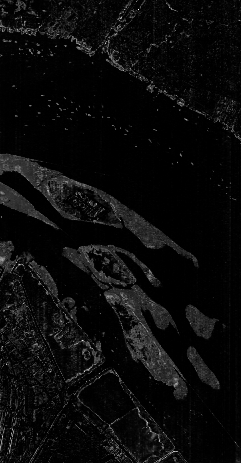
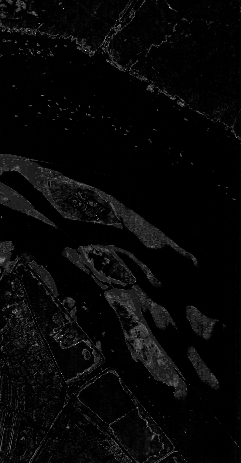
updated code with logs and tqdm

diff --git a/Hyperspectral-imaging/implementation-code/DSFANet-master/main.py b/Hyperspectral-imaging/implementation-code/DSFANet-master/main.py
@@ -3,6 +3,19 @@ import numpy as np
 import tensorflow as tf
 from sklearn.cluster import KMeans
 from sklearn.metrics import accuracy_score
+import logging
+import random
+from tqdm import tqdm
+# from time import sleep
+
+
+logging.basicConfig(filename="log.txt",
+                    filemode='a',
+                    level=logging.INFO,
+                    format='%(asctime)s %(levelname)s-%(message)s',
+                    datefmt='%Y-%m-%d %H:%M:%S')
+
+
 
 import utils
 from model import DSFANet
@@ -30,7 +43,7 @@ def main(X, Y, GT, diff):
     train_loss = np.zeros(max_iters)
 
     # -------- Training --------
-    for k in range(max_iters): #max_iters=100
+    for k in tqdm(range(max_iters)): #max_iters=100
         with tf.GradientTape() as tape:
             loss = model((XData, YData), training=True) # loss calculated from model with XData, YData
 
@@ -38,10 +51,11 @@ def main(X, Y, GT, diff):
         optimizer.apply_gradients(zip(grads, model.trainable_variables))
 
         train_loss[k] = loss.numpy()
+        
 
         if k % 100 == 0:
             print(f"iter {k:4d}, loss is {train_loss[k]:.4f}")
-
+            logging.info(f"epoch no:{k}"":"f"{train_loss[k]:.4f}")
     # -------- Inference --------
     X_tf = tf.convert_to_tensor(X, dtype=tf.float32)
     Y_tf = tf.convert_to_tensor(Y, dtype=tf.float32)

diff --git a/Hyperspectral-imaging/implementation-code/DSFANet-master/test.py b/Hyperspectral-imaging/implementation-code/DSFANet-master/test.py
@@ -1,0 +1,10 @@
+import logging
+import random
+
+logging.basicConfig(filename="Sample.txt",
+                    filemode='a',
+                    format='%(asctime)s %(levelname)s-%(message)s',
+                    datefmt='%Y-%m-%d %H:%M:%S')
+
+logging.info("Starting the loop for 15 iterations")
+logging.info("hi")
